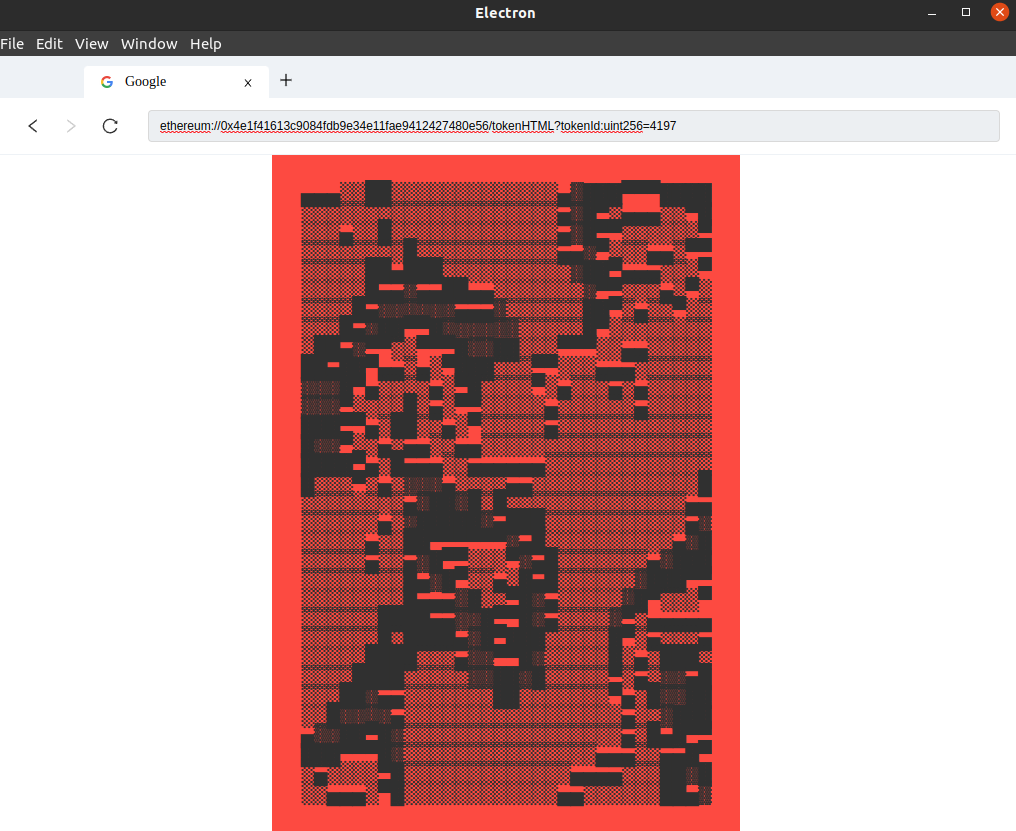
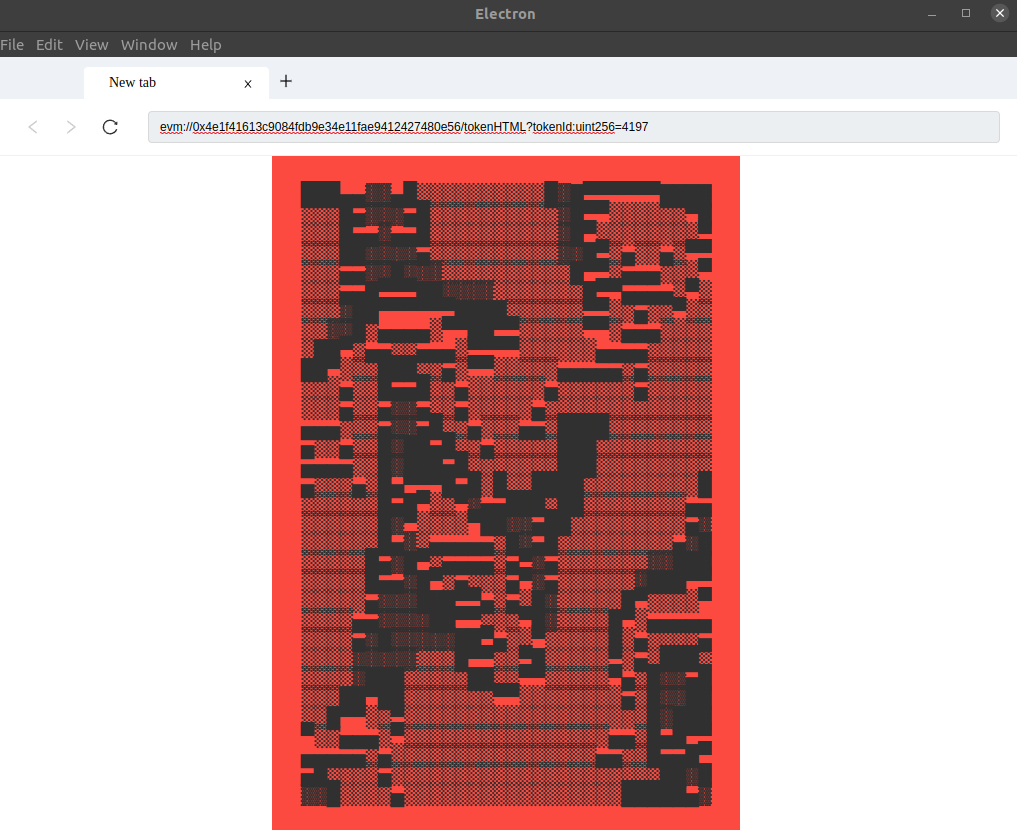
Protocol renamed from "ethereum://" to "evm://", as it works with any evm chain.

diff --git a/example/main.js b/example/main.js
@@ -30,7 +30,7 @@ function createWindow() {
   browser = new BrowserLikeWindow({
     controlHeight: 99,
     controlPanel: fileUrl(`${__dirname}/renderer/control.html`),
-    startPage: 'ethereum://0x4e1f41613c9084fdb9e34e11fae9412427480e56/tokenHTML?tokenId:uint256=4197',
+    startPage: 'evm://0x4e1f41613c9084fdb9e34e11fae9412427480e56/tokenHTML?tokenId:uint256=4197',
     blankTitle: 'New tab',
     debug: true, // will open controlPanel's devtools
     web3Url: args.web3Url,

diff --git a/index.js b/index.js
@@ -201,7 +201,7 @@ class BrowserLikeWindow extends EventEmitter {
 
     
     /**
-     * ethereum:// protocol
+     * evm:// protocol
      */
 
     // Viem client
@@ -211,7 +211,7 @@ class BrowserLikeWindow extends EventEmitter {
     });
 
     // Register protocol
-    protocol.registerBufferProtocol("ethereum", async (request, callback) => {
+    protocol.registerBufferProtocol("evm", async (request, callback) => {
 
       let url = new URL(request.url);
 

diff --git a/README.md b/README.md
@@ -1,18 +1,19 @@
-# ethereum-browser
+# evm-browser
 
-Browser with support of the `ethereum://` protocol scheme, forked from the great [electron-as-browser](https://github.com/hulufei/electron-as-browser) from hulufei. Experimental!
+Browser with support of the `evm://` protocol scheme, which allow you to display the contents returned by EVM contracts from any EVM chain (ethereum mainnet by default).
+Forked from the great [electron-as-browser](https://github.com/hulufei/electron-as-browser) from hulufei. Experimental!
 
-`ethereum://<contractAddress>/<contractMethod>?<arg1Name>:<arg1Type>=<argValue>&...`
+`evm://<contractAddress>/<contractMethod>?<arg1Name>:<arg1Type>=<argValue>&...`
 
 Example : 
 
-`ethereum://0x4e1f41613c9084fdb9e34e11fae9412427480e56/tokenHTML?tokenId:uint256=4197`
+`evm://0x4e1f41613c9084fdb9e34e11fae9412427480e56/tokenHTML?tokenId:uint256=4197`
 
 will load the tokenHTML method of the Terraform contract, asking for #4197
 
 ![./screenshot2.png](./screenshot2.png)
 
-Since `ethereum://` is supported at the browser level, alls links, XHR fetchs will work.
+Since `evm://` is supported at the browser level, alls links, XHR fetchs will work.
 
 ## Install
 
@@ -26,6 +27,6 @@ Since `ethereum://` is supported at the browser level, alls links, XHR fetchs wi
 
 Use your own web3 provider : `yarn start --web3-url https://eth-mainnet.alchemyapi.io/v2/xxxxxx`
 
-Use your local ethereum node : `yarn start --web3-url http://127.0.0.1:8545`
+Use your local evm node : `yarn start --web3-url http://127.0.0.1:8545`
 
 
